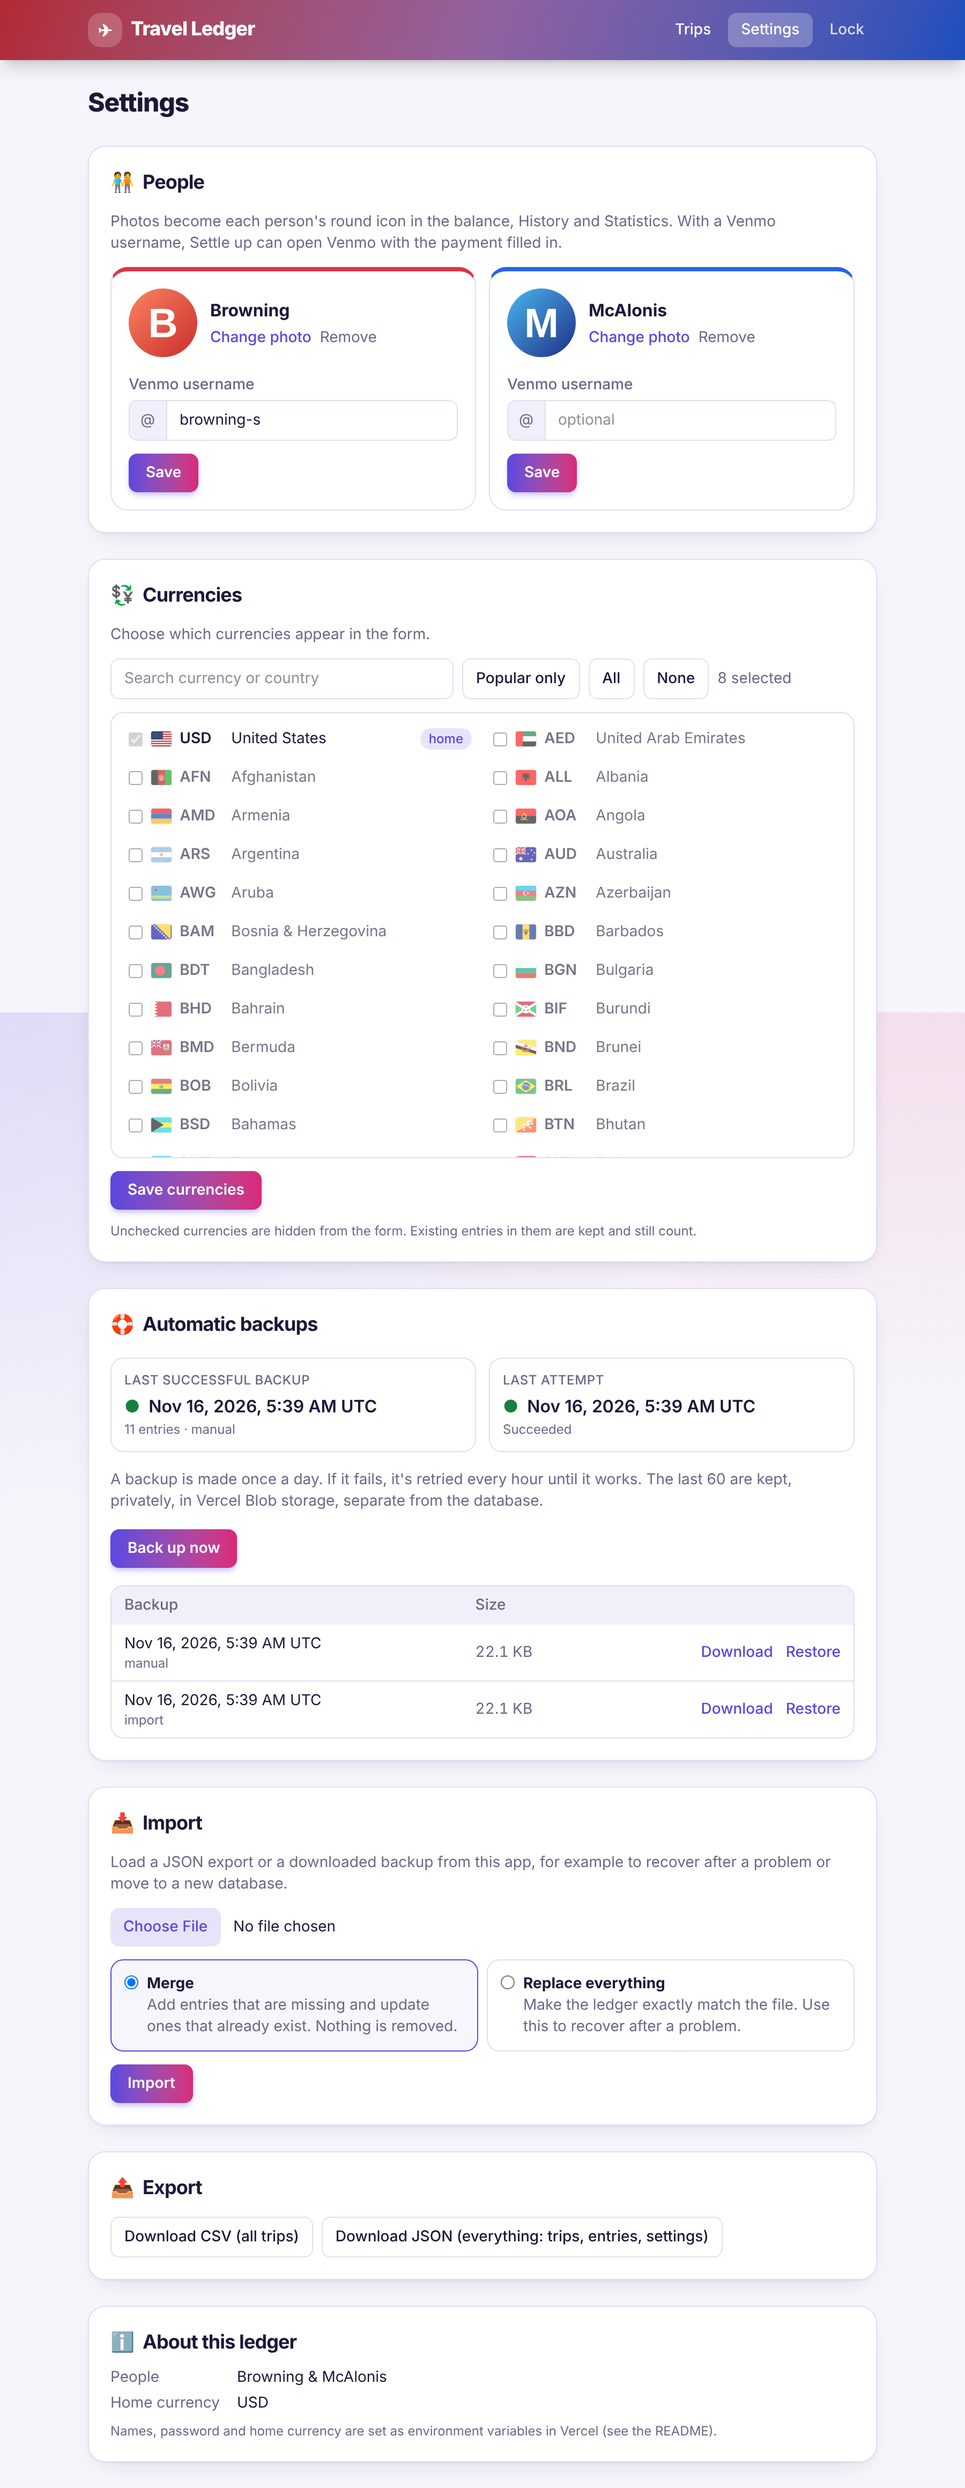
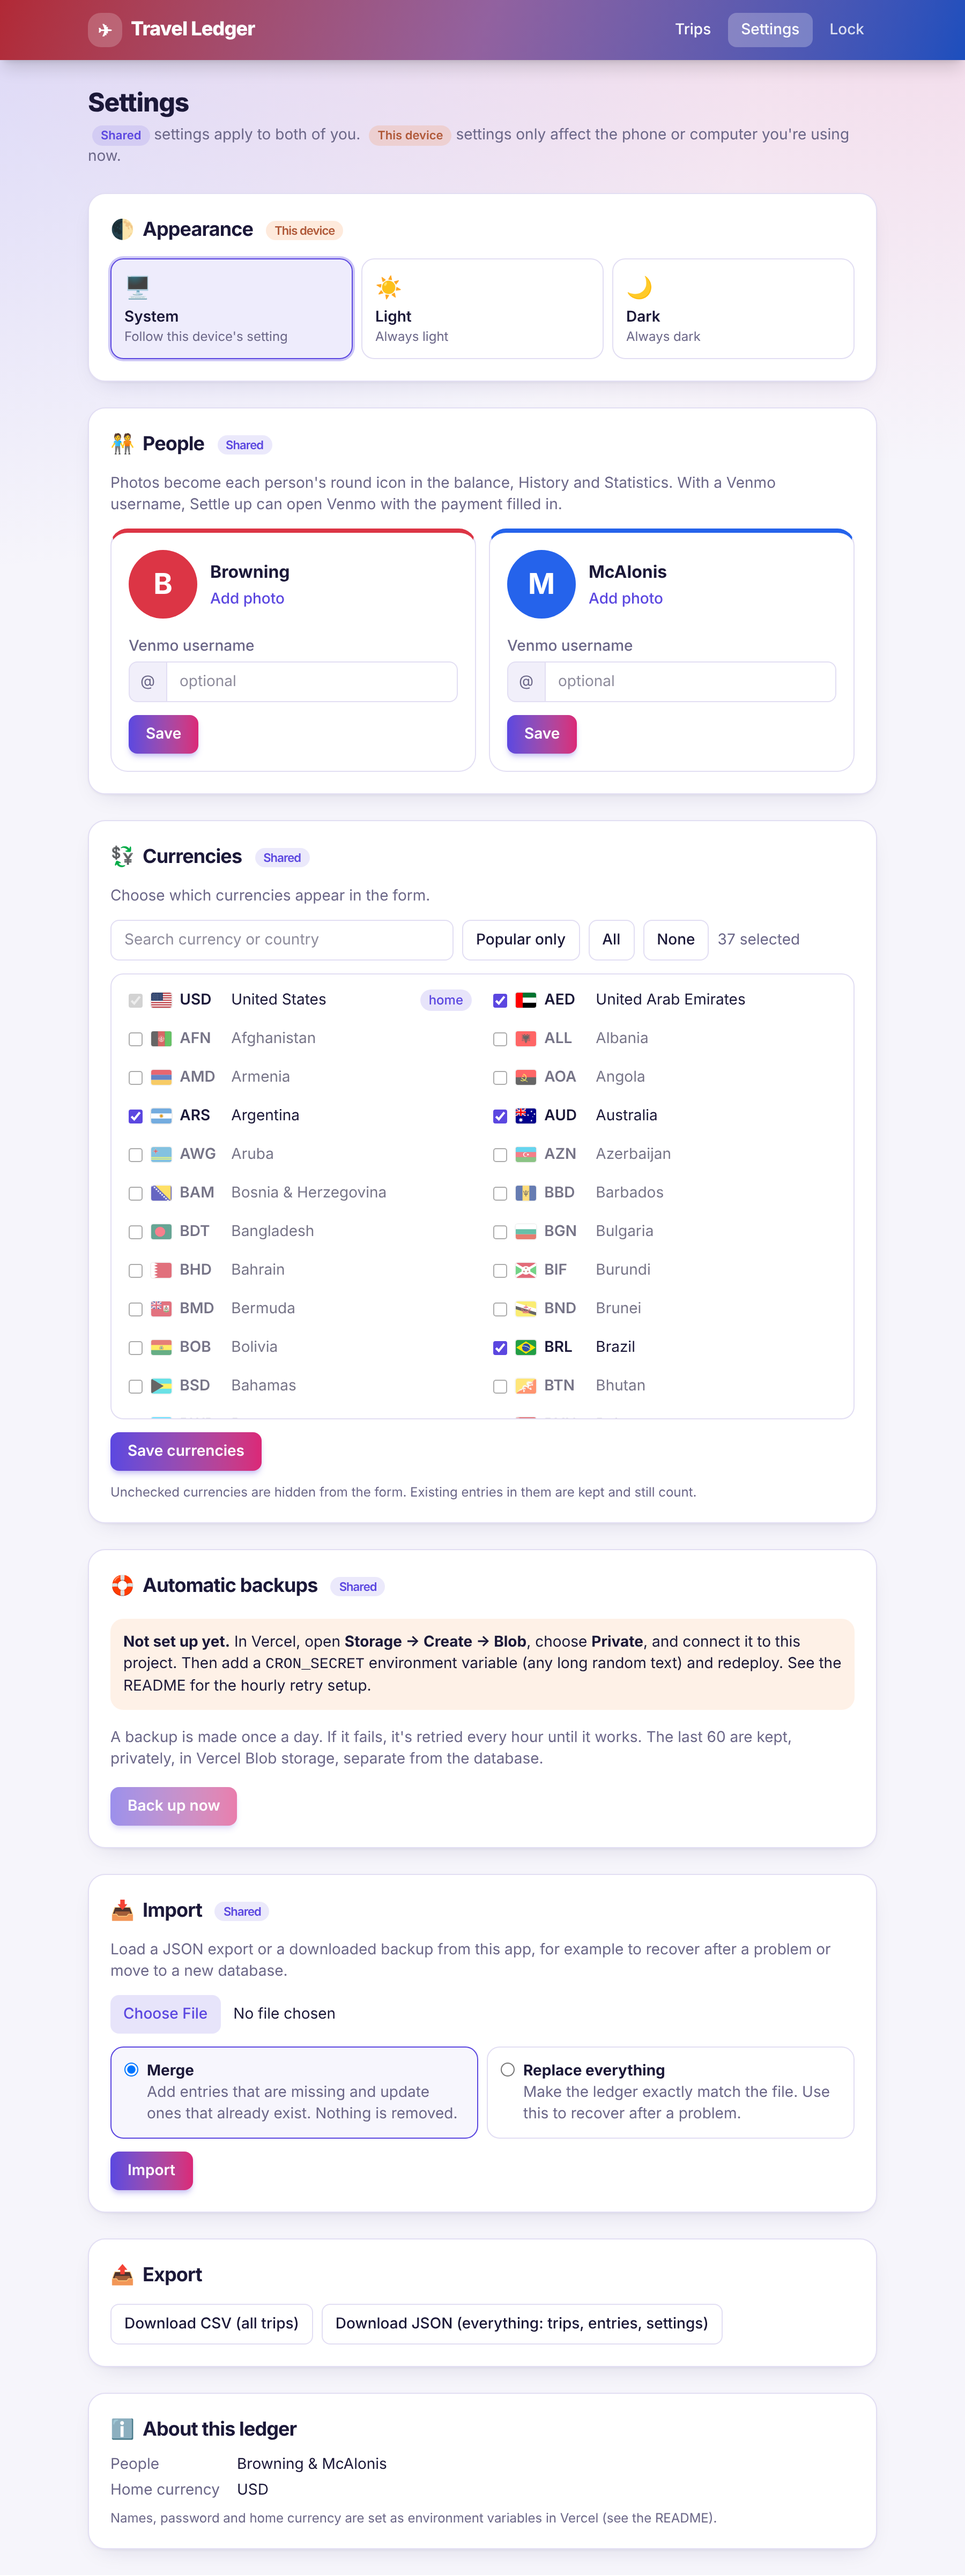
Add a per-device dark mode setting; label settings Shared / This device
Settings → Appearance offers System, Light or Dark, saved per device in
a cookie and applied on the server (data-theme on <html>) so pages load
in the right colors. Tailwind's dark: variant follows the same rule.
Each Settings section now says whether it's shared or device-only.

Claude-Session: https://claude.ai/code/session_012zpDizyNt3LK1MrmEuYdui

diff --git a/src/app/settings/page.tsx b/src/app/settings/page.tsx
@@ -7,7 +7,10 @@ import { listEntries, recentBackupRuns } from "@/lib/db";
 import { requireAuth } from "@/lib/session";
 import { enabledCurrencies, profiles } from "@/lib/settings";
 import { BackupNowButton, ImportForm, RestoreButton } from "./BackupControls";
+import { cookies } from "next/headers";
+import { THEME_COOKIE, parseTheme } from "@/lib/theme";
 import { CurrencySettings } from "./CurrencySettings";
+import { ThemeSettings } from "./ThemeSettings";
 import { PersonSettings } from "./PersonSettings";
 
 const when = (iso: string) =>
@@ -17,6 +20,7 @@ export default async function SettingsPage() {
   await requireAuth();
   const home = config.homeCurrency;
   const configured = backupsConfigured();
+  const theme = parseTheme((await cookies()).get(THEME_COOKIE)?.value);
   const [prof, enabled, entries, runs, backups] = await Promise.all([
     profiles(),
     enabledCurrencies(),
@@ -32,11 +36,24 @@ export default async function SettingsPage() {
     <>
       <Header active="settings" />
       <main className="mx-auto w-full max-w-3xl space-y-6 px-4 py-6">
-        <h1 className="text-2xl font-extrabold tracking-tight">Settings</h1>
+        <div>
+          <h1 className="text-2xl font-extrabold tracking-tight">Settings</h1>
+          <p className="mt-1 text-sm text-muted">
+            <Scope shared /> settings apply to both of you. <Scope /> settings only affect the phone or computer
+            you&apos;re using now.
+          </p>
+        </div>
 
         <section className="card space-y-3">
           <h2 className="section-title">
-            <span aria-hidden>🧑🤝🧑</span> People
+            <span aria-hidden>🌓</span> Appearance <Scope />
+          </h2>
+          <ThemeSettings initial={theme} />
+        </section>
+
+        <section className="card space-y-3">
+          <h2 className="section-title">
+            <span aria-hidden>🧑🤝🧑</span> People <Scope shared />
           </h2>
           <p className="text-sm text-muted">
             Photos become each person&apos;s round icon in the balance, History and Statistics. With a Venmo username,
@@ -51,7 +68,7 @@ export default async function SettingsPage() {
 
         <section className="card space-y-3">
           <h2 className="section-title">
-            <span aria-hidden>💱</span> Currencies
+            <span aria-hidden>💱</span> Currencies <Scope shared />
           </h2>
           <p className="text-sm text-muted">Choose which currencies appear in the form.</p>
           <CurrencySettings all={toOptions(homeFirst(home, ALL_CURRENCIES))} enabled={enabled} popular={POPULAR} home={home} inUse={inUse} />
@@ -59,7 +76,7 @@ export default async function SettingsPage() {
 
         <section className="card space-y-4">
           <h2 className="section-title">
-            <span aria-hidden>🛟</span> Automatic backups
+            <span aria-hidden>🛟</span> Automatic backups <Scope shared />
           </h2>
           {!configured ? (
             <div className="rounded-xl bg-accent-3/10 p-3 text-sm">
@@ -122,7 +139,7 @@ export default async function SettingsPage() {
 
         <section className="card space-y-3">
           <h2 className="section-title">
-            <span aria-hidden>📥</span> Import
+            <span aria-hidden>📥</span> Import <Scope shared />
           </h2>
           <p className="text-sm text-muted">
             Load a JSON export or a downloaded backup from this app, for example to recover after a problem or move to a
@@ -178,5 +195,16 @@ function Status({ label, value, detail, tone }: { label: string; value: string; 
       </p>
       {detail && <p className={`mt-0.5 text-xs ${tone === "bad" ? "text-bad" : "text-muted"}`}>{detail}</p>}
     </div>
+  );
+}
+
+/** Small label saying whether a setting is shared by both people or only applies to this device. */
+function Scope({ shared = false }: { shared?: boolean }) {
+  return shared ? (
+    <span className="chip ml-1 bg-accent/12 align-middle text-[11px] font-semibold text-accent">Shared</span>
+  ) : (
+    <span className="chip ml-1 bg-accent-3/15 align-middle text-[11px] font-semibold text-[color-mix(in_oklab,var(--accent-3)_70%,var(--foreground))]">
+      This device
+    </span>
   );
 }

diff --git a/src/app/settings/ThemeSettings.tsx b/src/app/settings/ThemeSettings.tsx
@@ -1,0 +1,51 @@
+"use client";
+
+import { useState, useTransition } from "react";
+import { setThemeAction } from "@/app/theme-actions";
+import type { Theme } from "@/lib/theme";
+
+const options: { value: Theme; label: string; icon: string; hint: string }[] = [
+  { value: "system", label: "System", icon: "🖥", hint: "Follow this device's setting" },
+  { value: "light", label: "Light", icon: "☀", hint: "Always light" },
+  { value: "dark", label: "Dark", icon: "🌙", hint: "Always dark" },
+];
+
+/** Switches the page's colors right away, without waiting for a reload. */
+function applyTheme(value: Theme) {
+  const html = document.documentElement;
+  if (value === "system") html.removeAttribute("data-theme");
+  else html.setAttribute("data-theme", value);
+}
+
+export function ThemeSettings({ initial }: { initial: Theme }) {
+  const [theme, setTheme] = useState<Theme>(initial);
+  const [, startTransition] = useTransition();
+
+  function choose(value: Theme) {
+    setTheme(value);
+    // Apply instantly, then remember it for this device.
+    applyTheme(value);
+    startTransition(() => setThemeAction(value));
+  }
+
+  return (
+    <div role="radiogroup" aria-label="Appearance" className="grid grid-cols-3 gap-2">
+      {options.map((o) => (
+        <button
+          key={o.value}
+          type="button"
+          role="radio"
+          aria-checked={theme === o.value}
+          onClick={() => choose(o.value)}
+          className={`rounded-xl border p-3 text-left transition ${
+            theme === o.value ? "border-accent bg-accent/10 ring-2 ring-accent/30" : "border-line hover:border-accent/50"
+          }`}
+        >
+          <span aria-hidden className="text-xl">{o.icon}</span>
+          <span className="mt-1 block text-sm font-semibold">{o.label}</span>
+          <span className="block text-xs text-muted">{o.hint}</span>
+        </button>
+      ))}
+    </div>
+  );
+}

diff --git a/src/app/globals.css b/src/app/globals.css
@@ -1,5 +1,17 @@
 @import "tailwindcss";
 
+/* Tailwind's dark: classes follow the same rule as the colors below. */
+@custom-variant dark {
+  &:where([data-theme="dark"], [data-theme="dark"] *) {
+    @slot;
+  }
+  @media (prefers-color-scheme: dark) {
+    &:where(:root:not([data-theme="light"]), :root:not([data-theme="light"]) *) {
+      @slot;
+    }
+  }
+}
+
 :root {
   color-scheme: light;
   --background: #f6f5fb;
@@ -32,8 +44,12 @@
   --series-other: #9a97ad;
 }
 
+/*
+ * Dark mode: follows the device unless this device chose Light or Dark in Settings
+ * (stored per device; the page sets data-theme on <html>).
+ */
 @media (prefers-color-scheme: dark) {
-  :root {
+  :root:not([data-theme="light"]) {
     color-scheme: dark;
     --background: #120f24;
     --foreground: #ece9fb;
@@ -62,6 +78,35 @@
     --series-8: #e66767;
     --series-other: #6f6a8f;
   }
+}
+:root[data-theme="dark"] {
+  color-scheme: dark;
+  --background: #120f24;
+  --foreground: #ece9fb;
+  --card: #1c1834;
+  --subtle: #262143;
+  --line: #342e57;
+  --muted: #a59fc9;
+  --accent: #8b7cf6;
+  --accent-2: #f472b6;
+  --accent-3: #fb923c;
+  --p1: #f0616f;
+  --p2: #5b8ef5;
+  --good: #4ade80;
+  --bad: #fb923c;
+  --hero-from: #4733c4;
+  --hero-via: #7e2fb3;
+  --hero-to: #b8325f;
+
+  --series-1: #3987e5;
+  --series-2: #d95926;
+  --series-3: #199e70;
+  --series-4: #c98500;
+  --series-5: #d55181;
+  --series-6: #0ca30c;
+  --series-7: #9085e9;
+  --series-8: #e66767;
+  --series-other: #6f6a8f;
 }
 
 @theme inline {

diff --git a/src/app/layout.tsx b/src/app/layout.tsx
@@ -1,6 +1,8 @@
 import type { Metadata, Viewport } from "next";
 import "flag-icons/css/flag-icons.min.css";
 import "./globals.css";
+import { cookies } from "next/headers";
+import { THEME_COOKIE, parseTheme } from "@/lib/theme";
 
 export const metadata: Metadata = {
   title: "Travel Ledger",
@@ -12,9 +14,11 @@ export const viewport: Viewport = {
   themeColor: "#5b47e0",
 };
 
-export default function RootLayout({ children }: LayoutProps<"/">) {
+export default async function RootLayout({ children }: LayoutProps<"/">) {
+  // This device's appearance choice (System / Light / Dark), set on <html> so the right colors load immediately.
+  const theme = parseTheme((await cookies()).get(THEME_COOKIE)?.value);
   return (
-    <html lang="en" className="h-full antialiased">
+    <html lang="en" className="h-full antialiased" data-theme={theme === "system" ? undefined : theme}>
       <body className="flex min-h-full flex-col">{children}</body>
     </html>
   );

diff --git a/src/app/theme-actions.ts b/src/app/theme-actions.ts
@@ -1,0 +1,12 @@
+"use server";
+
+import { cookies } from "next/headers";
+import { THEME_COOKIE, parseTheme } from "@/lib/theme";
+
+/** Saves this device's appearance choice (no password needed: it only affects this browser). */
+export async function setThemeAction(theme: string) {
+  const value = parseTheme(theme);
+  const jar = await cookies();
+  if (value === "system") jar.delete(THEME_COOKIE);
+  else jar.set(THEME_COOKIE, value, { path: "/", maxAge: 60 * 60 * 24 * 365 * 2, sameSite: "lax" });
+}

diff --git a/src/lib/theme.ts b/src/lib/theme.ts
@@ -1,0 +1,3 @@
+export const THEME_COOKIE = "ledger_theme";
+export type Theme = "system" | "light" | "dark";
+export const parseTheme = (v: string | undefined): Theme => (v === "light" || v === "dark" ? v : "system");

diff --git a/README.md b/README.md
@@ -45,6 +45,9 @@ Also: [settings](docs/screenshots/5_settings.png) · [people](docs/screenshots/s
   by country, with hover details and a table view), and what each person paid compared with their share.
 - **Settings.** Choose which currencies appear in the form. Each currency is shown with its country and flag. The
   form remembers the last currency and the last "Paid by" person used on each device.
+- **Appearance.** System, Light or Dark, chosen separately on each phone or computer. Settings marks every section
+  **Shared** (applies to both of you: people, currencies, backups, import) or **This device** (appearance; the form
+  also remembers each device's last currency and payer).
 - **Import.** Load a JSON export or backup, either merging it in or replacing everything. A safety backup is taken
   first.
 - **Automatic backups.** See [Backups](#backups) below.
